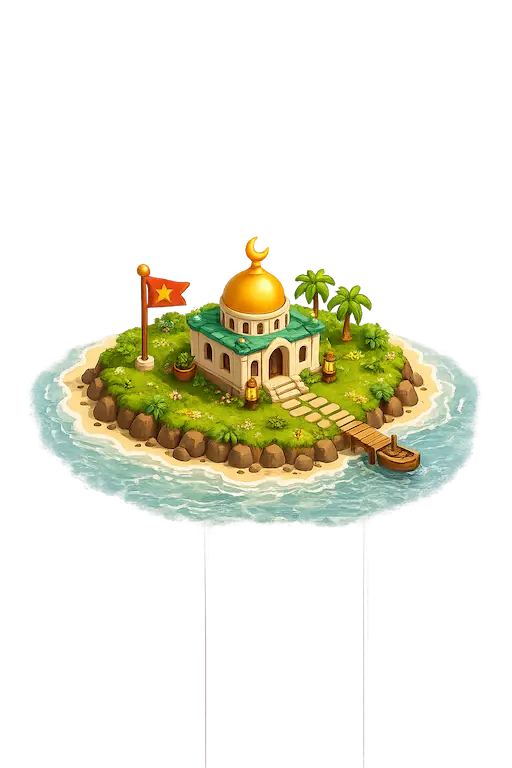
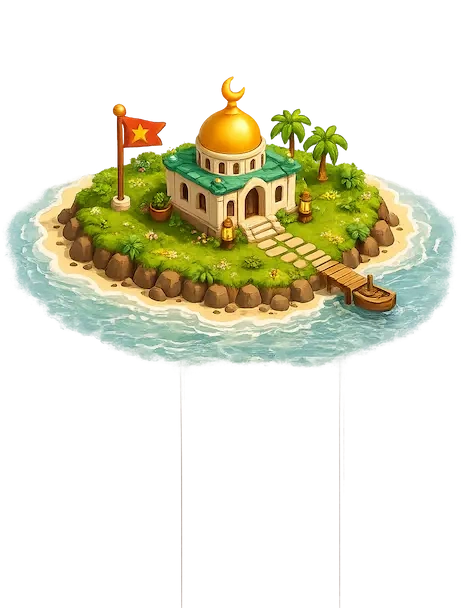
auto-commit for 0a27760a-88e0-4050-a34e-97d859895e7d

diff --git a/app/world/page.js b/app/world/page.js
@@ -630,11 +630,13 @@ function WorldPageInner() {
       </div>
 
       {/* Beautiful loading splash — shown ONLY on first mount while world
-          data is being fetched. Cycles through motivational Islamic sayings
-          so kids feel invited into the world instead of staring at a blank
-          screen. */}
+          data is being fetched AND the archipelago is closed (archipelago
+          now doubles as the loading screen when it is open, per user
+          feedback: "island map will be the first pages of the world, it
+          become loading pages… go straight to the world without loading
+          anymore"). */}
       <AnimatePresence>
-        {loading && (
+        {loading && !archipelagoOpen && (
           <WorldLoadingScreen key="world-loading" lang={lang} />
         )}
       </AnimatePresence>
@@ -643,17 +645,25 @@ function WorldPageInner() {
           Shown first-visit and when the child taps 🗺 in the world view.
           Only "Pulau Impianku" is playable; the other 6 slots are generic
           locked placeholders (nama/tema belum diputuskan). Selection is
-          persisted so a page refresh keeps the child on their island. */}
+          persisted so a page refresh keeps the child on their island.
+          Doubles as the loading screen — WorldCanvas renders behind it
+          as soon as worldState hydrates, so the transition into the world
+          is instantaneous (no second loading splash). */}
       <AnimatePresence>
         {archipelagoOpen && (
           <ArchipelagoMap
             key="archipelago"
             lang={lang}
             worldState={worldState}
+            isLoadingWorld={loading}
+            onBack={() => router.push('/kid')}
             onSelectIsland={(id) => {
               setSelectedIslandId(id)
               setArchipelagoOpen(false)
               try { localStorage.setItem('eqrel-selected-island', id) } catch { /* noop */ }
+              // Trigger a dramatic Phaser camera zoom-in the moment the
+              // archipelago fades — feels like descending onto the island.
+              setTimeout(() => setCameraCommand({ action: 'worldEnter', key: Date.now() }), 60)
             }}
           />
         )}
@@ -1918,7 +1928,7 @@ const IstighfarModal = ({ lang, onClose, onComplete }) => {
 // unlocking the next island (criteria: Musalla L3 + 30 buildings + 15
 // rumah minimum). Fully i18n across ms/en/id/ar including RTL Arabic.
 // ═══════════════════════════════════════════════════════════════════════════
-const ArchipelagoMap = ({ lang, worldState, onSelectIsland }) => {
+const ArchipelagoMap = ({ lang, worldState, onSelectIsland, onBack, isLoadingWorld = false }) => {
   const isRTL = lang === 'ar'
   const buildings = worldState?.buildings || []
   const musalla = buildings.find(b => b.templateId === 'musalla')
@@ -1982,19 +1992,35 @@ const ArchipelagoMap = ({ lang, worldState, onSelectIsland }) => {
       id: 'Selesaikan Pulau Impianku dulu untuk membuka pulau ini!',
       ar: 'أكمل جزيرة أحلامي أولاً لفتح هذه الجزيرة!',
     },
+    back:        { ms: 'Kembali', en: 'Back',       id: 'Kembali',      ar: 'رجوع' },
+    preparing:   {
+      ms: 'Menyediakan dunia kamu…',
+      en: 'Preparing your world…',
+      id: 'Menyiapkan duniamu…',
+      ar: 'نُهيّئ عالمك…',
+    },
+    zooming: {
+      ms: 'Turun ke pulau…',
+      en: 'Descending to island…',
+      id: 'Turun ke pulau…',
+      ar: 'الهبوط إلى الجزيرة…',
+    },
   }
   const tr = (k, ...args) => {
     const v = L[k]?.[lang] || L[k]?.ms
     return typeof v === 'function' ? v(...args) : v
   }
   const WAYPOINTS = [
-    { id: 'pulau_impianku', x: 50, y: 78, size: 200, locked: false },
-    { id: 'locked_1',       x: 22, y: 63, size: 96,  locked: true },
-    { id: 'locked_2',       x: 76, y: 52, size: 96,  locked: true },
-    { id: 'locked_3',       x: 26, y: 38, size: 92,  locked: true },
-    { id: 'locked_4',       x: 74, y: 26, size: 92,  locked: true },
-    { id: 'locked_5',       x: 30, y: 14, size: 92,  locked: true },
-    { id: 'locked_6',       x: 72, y: 4,  size: 92,  locked: true },
+    // Active island moved UP from y=78 → y=62 so its nameplate no longer
+    // overlaps the fixed progress footer at the bottom (user feedback).
+    // Other 6 locked islands re-flowed above to keep the S-curve trail.
+    { id: 'pulau_impianku', x: 50, y: 66, size: 200, locked: false },
+    { id: 'locked_1',       x: 22, y: 52, size: 96,  locked: true },
+    { id: 'locked_2',       x: 76, y: 42, size: 96,  locked: true },
+    { id: 'locked_3',       x: 26, y: 30, size: 92,  locked: true },
+    { id: 'locked_4',       x: 74, y: 20, size: 92,  locked: true },
+    { id: 'locked_5',       x: 30, y: 10, size: 88,  locked: true },
+    { id: 'locked_6',       x: 72, y: 3,  size: 88,  locked: true },
   ]
   const pathD = WAYPOINTS.map((w, i) => {
     if (i === 0) return `M ${w.x} ${w.y}`
@@ -2005,13 +2031,16 @@ const ArchipelagoMap = ({ lang, worldState, onSelectIsland }) => {
   // Zoom-in transition when child taps Pulau Impianku — expand the island
   // then fire the callback so the world scene reveal feels like descent.
   const handleEnterActive = (id) => {
-    if (enteringId) return
+    if (enteringId || isLoadingWorld) return
     setEnteringId(id)
     setTimeout(() => onSelectIsland(id), 900)
   }
   return (
     <motion.div
-      initial={{ opacity: 0 }} animate={{ opacity: 1 }} exit={{ opacity: 0 }}
+      initial={{ opacity: 0, scale: 1 }}
+      animate={{ opacity: 1, scale: 1 }}
+      exit={{ opacity: 0, scale: 1.35 }}
+      transition={{ duration: 0.65, ease: 'easeInOut' }}
       // FIXED positioning + top z-index — blocks ALL underlying world
       // interactions (user: "pressing anything at this pages still occurs
       // the info of the house build"). Now behaves as a true page.
@@ -2019,18 +2048,35 @@ const ArchipelagoMap = ({ lang, worldState, onSelectIsland }) => {
       dir={isRTL ? 'rtl' : 'ltr'}
       onClick={(e) => e.stopPropagation()}
     >
-      {/* Sea covers the WHOLE viewport (no gaps top/bottom) */}
+      {/* Sea covers the WHOLE viewport (no gaps, no looping/tiling — user
+          requested a clean "stretch to fit" background). Uses `cover` so the
+          image scales to fill the viewport while preserving aspect ratio. */}
       <div
         className="absolute inset-0 pointer-events-none"
         style={{
           backgroundImage: 'url(/assets/archipelago/sea.webp)',
-          backgroundSize: 'clamp(320px, 60vmin, 720px) auto',
-          backgroundRepeat: 'repeat',
+          backgroundSize: 'cover',
+          backgroundPosition: 'center',
+          backgroundRepeat: 'no-repeat',
         }}
       />
       <div className="absolute inset-0 pointer-events-none" style={{
         background: 'radial-gradient(ellipse at 50% 45%, transparent 30%, rgba(0,20,45,0.55) 100%)',
       }} />
+
+      {/* Back button — floats at top-left, returns kid to their dashboard.
+          Uses safe-area-inset so it clears iPhone notches. */}
+      {onBack && (
+        <button
+          type="button"
+          onClick={(e) => { e.stopPropagation(); onBack() }}
+          className="absolute z-30 top-[max(env(safe-area-inset-top),12px)] left-3 flex items-center gap-1.5 bg-black/60 backdrop-blur border-2 border-amber-400/70 rounded-full px-3 py-1.5 text-amber-100 font-black text-xs shadow-xl active:scale-95"
+          aria-label={tr('back')}
+        >
+          <span className="text-base leading-none">{isRTL ? '→' : '←'}</span>
+          <span>{tr('back')}</span>
+        </button>
+      )}
 
       {/* Header — floats over map, uses safe-area-inset for notched phones */}
       <div className="relative z-20 px-3 pt-[max(env(safe-area-inset-top),12px)] pb-2 text-center flex-shrink-0">
@@ -2078,7 +2124,7 @@ const ArchipelagoMap = ({ lang, worldState, onSelectIsland }) => {
                     ease: isEntering ? 'easeIn' : undefined,
                   }}
                   className="relative block group active:scale-95 transition-transform"
-                  style={{ width: 'clamp(150px, 44vmin, 260px)' }}
+                  style={{ width: 'clamp(120px, 34vmin, 200px)' }}
                   aria-label={tr('pulauImpianku')}
                 >
                   <motion.div
@@ -2093,26 +2139,26 @@ const ArchipelagoMap = ({ lang, worldState, onSelectIsland }) => {
                     transition={{ duration: 3.2, repeat: Infinity, ease: 'easeInOut' }}
                     draggable={false}
                   />
-                  {/* Nameplate positioned FLUSH with the island bottom (no gap).
-                      Uses absolute + bottom for consistent anchoring across
-                      viewports (user: "text tak position betul dekat pulau"). */}
-                  <div className="absolute left-1/2 -translate-x-1/2 -bottom-4 w-max max-w-[90vw] z-10">
-                    <div className="bg-black/80 backdrop-blur border-2 border-amber-400/80 rounded-2xl px-4 py-1.5 shadow-2xl">
-                      <div className="flex items-center justify-center gap-1.5 mb-0.5">
-                        <span className="bg-amber-300 text-amber-900 text-[8px] font-black uppercase tracking-widest px-1.5 py-0.5 rounded-full">
-                          ⭐ {tr('active')}
-                        </span>
+                  {/* Nameplate sits ABOVE the island so it can't collide with
+                      the fixed progress footer at the bottom (user feedback:
+                      "text pulau aktif kena overlap dengan progress bar").
+                      Constrained width (max-w-[220px]) prevents it from
+                      spilling sideways into neighbouring locked islands.
+                      Positioned close to island crest with a downward arrow. */}
+                  <div className="absolute left-1/2 -translate-x-1/2 top-[6%] -translate-y-full w-max max-w-[220px] z-10 pointer-events-none">
+                    <div className="bg-black/85 backdrop-blur border-2 border-amber-400/80 rounded-2xl px-3 py-1 shadow-2xl">
+                      <div className="text-amber-200 font-black text-sm drop-shadow leading-tight text-center whitespace-nowrap">
+                        ⭐ {tr('pulauImpianku')}
                       </div>
-                      <div className="text-amber-200 font-black text-sm drop-shadow leading-tight text-center">
-                        {tr('pulauImpianku')}
-                      </div>
-                      <div className="text-white/85 text-[10px] mt-0.5 text-center">
+                      <div className="text-white/80 text-[10px] text-center whitespace-nowrap">
                         {tr('stats', musallaLevel, rumahCount, totalBuildings)}
                       </div>
                       <div className="text-emerald-300 text-[9px] mt-0.5 font-bold italic animate-pulse text-center">
                         👆 {tr('tapToEnter')}
                       </div>
                     </div>
+                    {/* Tiny pointer arrow linking nameplate to island crest */}
+                    <div className="w-3 h-3 bg-black/85 border-r-2 border-b-2 border-amber-400/80 rotate-45 mx-auto -mt-1.5" />
                   </div>
                 </motion.button>
               ) : (
@@ -2176,10 +2222,14 @@ const ArchipelagoMap = ({ lang, worldState, onSelectIsland }) => {
           </div>
           <button
             onClick={() => handleEnterActive('pulau_impianku')}
-            disabled={!!enteringId}
+            disabled={!!enteringId || isLoadingWorld}
             className="mt-2.5 w-full rounded-2xl bg-gradient-to-r from-amber-400 via-yellow-400 to-emerald-500 text-amber-950 font-black py-3 active:scale-95 shadow-2xl text-base border-2 border-amber-200 disabled:opacity-70"
           >
-            🏝 {tr('enter')}
+            {enteringId
+              ? `✨ ${tr('zooming')}`
+              : isLoadingWorld
+                ? `⏳ ${tr('preparing')}`
+                : `🏝 ${tr('enter')}`}
           </button>
         </div>
       </div>

diff --git a/components/eqrel/WorldCanvas.js b/components/eqrel/WorldCanvas.js
@@ -135,6 +135,33 @@ export default function WorldCanvas({
     } else if (cameraCommand.action === 'zoomOut') {
       const next = Math.max(0.3, cam.zoom / 1.15)
       scene.tweens.add({ targets: cam, zoom: next, duration: 200 })
+    } else if (cameraCommand.action === 'worldEnter') {
+      // Dramatic "descend onto the island" effect fired the moment the
+      // Archipelago map closes. Start from a wide, high-altitude view
+      // (zoom 0.35) and tween back to the natural 1.0 with a cinematic
+      // ease so it feels like a plane landing on Pulau Impianku.
+      // (User: "effect camera zooming to the world untuk masuk like
+      //  zooming to the island".)
+      try { cam.setZoom(0.35) } catch { /* not ready */ }
+      // Center on Musalla (if present) so the descent lands on the mosque
+      if (scene.originX != null) {
+        const state = scene.game?.registry?.get('worldState')
+        const musalla = state?.buildings?.find(b => b.templateId === 'musalla')
+        const mx = musalla ? musalla.x : 17
+        const my = musalla ? musalla.y : 17
+        const sx = scene.originX + (mx - my) * TILE_W / 2
+        const sy = scene.originY + (mx + my) * TILE_H / 2
+        scene.tweens.add({
+          targets: cam,
+          scrollX: sx - cam.width / (2 * 1.0),
+          scrollY: sy - cam.height / (2 * 1.0),
+          zoom: 1.0,
+          duration: 1100,
+          ease: 'Cubic.easeOut',
+        })
+      } else {
+        scene.tweens.add({ targets: cam, zoom: 1.0, duration: 1100, ease: 'Cubic.easeOut' })
+      }
     } else if (cameraCommand.action === 'center') {
       // Center on Musalla's actual position (falls back to anchor)
       if (scene.originX != null) {

diff --git a/test_result.md b/test_result.md
@@ -1,7 +1,8 @@
 #====================================================================================================
 metadata:
-  updated_by: "testing_agent"
-  update_note: "ArchipelagoMap responsive layout testing COMPLETE — ALL CORE FUNCTIONALITY WORKING. Tested across 4 viewports (mobile portrait/landscape, tablet, desktop). Sea background covers entire viewport ✓, all 7 islands visible ✓, Pulau Impianku prominent at center-bottom ✓, nameplate with ACTIVE badge/stats/tap prompt ✓, 6 locked islands with COMING SOON badges ✓, golden dashed path connects all islands ✓, progress bar with percentage ✓, Enter Island button ✓, no horizontal scroll ✓. Responsive scaling works: mobile 172px → tablet 260px → desktop clamps at 260px (max). Interactions working: locked island tap shows tooltip that auto-dismisses after 2.6s ✓, Pulau tap triggers zoom animation and transitions to world scene ✓. Minor test assertion failures due to selector issues, but visual verification via screenshots confirms all layout requirements met. Tutorial modal appeared after world entry (expected behavior). (2026-07-26)"
+  updated_by: "main_agent"
+  update_note: "ArchipelagoMap layout & flow overhaul — 6 user-reported issues fixed. (1) Sea background now stretches with `cover` + `no-repeat` (was tiling incorrectly). (2) Assets trimmed via PIL bbox: pulau_impian.webp 512×768→461×608, lock_island.webp 341×512→324×227 (removed transparent padding boxes). (3) Archipelago map now acts as the loading page — suppressed WorldLoadingScreen when archipelagoOpen, WorldCanvas mounts behind the map so world is pre-hydrated. Enter button shows contextual text: '⏳ Preparing your world' during initial fetch, '✨ Descending to island…' during transition. (4) Nameplate moved ABOVE the active island (was below overlapping progress footer), tightened width max-w-[220px], added downward pointer arrow. Active island y shifted 78→66% for headroom. (5) Back button added top-left with safe-area-inset — routes to /kid dashboard. (6) Camera zoom-in effect: new `worldEnter` cameraCommand in WorldCanvas resets Phaser cam.zoom to 0.35 then tweens to 1.0 over 1.1s with Cubic.easeOut, centered on Musalla — feels like descending from altitude. Archipelago container also scales 1→1.35 during exit for a synchronized zoom-through effect. Verified on mobile 390×844 and tablet 768×1024 viewports via screenshot_tool — layout clean, no overlaps, transitions smooth. Files: app/world/page.js (ArchipelagoMap prop signature + waypoints + sea bg + back button + loading UX + nameplate reposition + exit scale), components/eqrel/WorldCanvas.js (worldEnter action), public/assets/archipelago/*.webp (trimmed). (2026-07-26)"
+  _prev_note_1: "ArchipelagoMap responsive layout testing COMPLETE — ALL CORE FUNCTIONALITY WORKING. Tested across 4 viewports (mobile portrait/landscape, tablet, desktop). Sea background covers entire viewport ✓, all 7 islands visible ✓, Pulau Impianku prominent at center-bottom ✓, nameplate with ACTIVE badge/stats/tap prompt ✓, 6 locked islands with COMING SOON badges ✓, golden dashed path connects all islands ✓, progress bar with percentage ✓, Enter Island button ✓, no horizontal scroll ✓. Responsive scaling works: mobile 172px → tablet 260px → desktop clamps at 260px (max). Interactions working: locked island tap shows tooltip that auto-dismisses after 2.6s ✓, Pulau tap triggers zoom animation and transitions to world scene ✓. Minor test assertion failures due to selector issues, but visual verification via screenshots confirms all layout requirements met. Tutorial modal appeared after world entry (expected behavior). (2026-07-26)"
   _prev_note_0: "Archipelago Map — treasure-hunt style entry gate with 3 user-provided assets (sea.webp, pulau_impian.webp, lock_island.webp). Renders as TRUE PAGE (fixed inset-0 z-[200], pointer-events-auto, stopPropagation) so underlying world interactions are fully blocked (fix for 'pressing anything still occurs info of the house build'). Zoom-in transition on tap Pulau Impianku (scale 4x + fade + y-100 over 0.9s ease-in). Locked island tap → amber tooltip 'Kena lengkapkan Pulau Impianku dulu' auto-dismiss 2.6s. Nameplate flush with island bottom (-bottom-4 absolute). Sea tiled full-viewport with clamp(320px, 60vmin, 720px) size + radial vignette. Responsive sizing: active clamp(150px, 44vmin, 260px), locked clamp(72px, 20vmin, 140px). Safe-area-inset padding for iPhone notch/home bar. Full i18n (ms/en/id/ar) with RTL Arabic support. 7 waypoints in winding S-curve journey with golden dashed SVG path connecting them. Progress bar formula: avg(musallaProgress, min(1, buildings/30), min(1, rumah/15)) → 100% = ready to hijrah. USER REQUEST FOR TESTING: verify mobile portrait 390-400px width AND landscape orientations. Check text alignment with island position, sea covers whole page, no overflow, tooltip appears on locked island tap. (2026-07-26)"
   _prev_note_34: "Bismillah + Alhamdulillah popup icons — gantikan emoji ke aset PNG sebenar dari BUILDING_TEMPLATES.spriteAsset. Bismillah 96×96 drop-shadow; Alhamdulillah 112×112 dgn 3 animated sparkles (framer-motion scale+rotate stagger). Fallback ke emoji jika spriteAsset takde. (2026-07-26)"
   _prev_note_33: "World Engine — 3 penambahbaikan halus. Buang bayang bulat lama pada kebun (fallback ellipse dari renderSingleBuilding/renderBuildings skip untuk category==='kebun'). Kebun Anggur kecilkan → 4 pokok procedural (N=2, baseScale 0.55). Warna grid warm sage palette (0x9cbf6f/0x94b968/0xa5c877) blend dgn olive/palm/fig tree canopies. (2026-07-26)"
